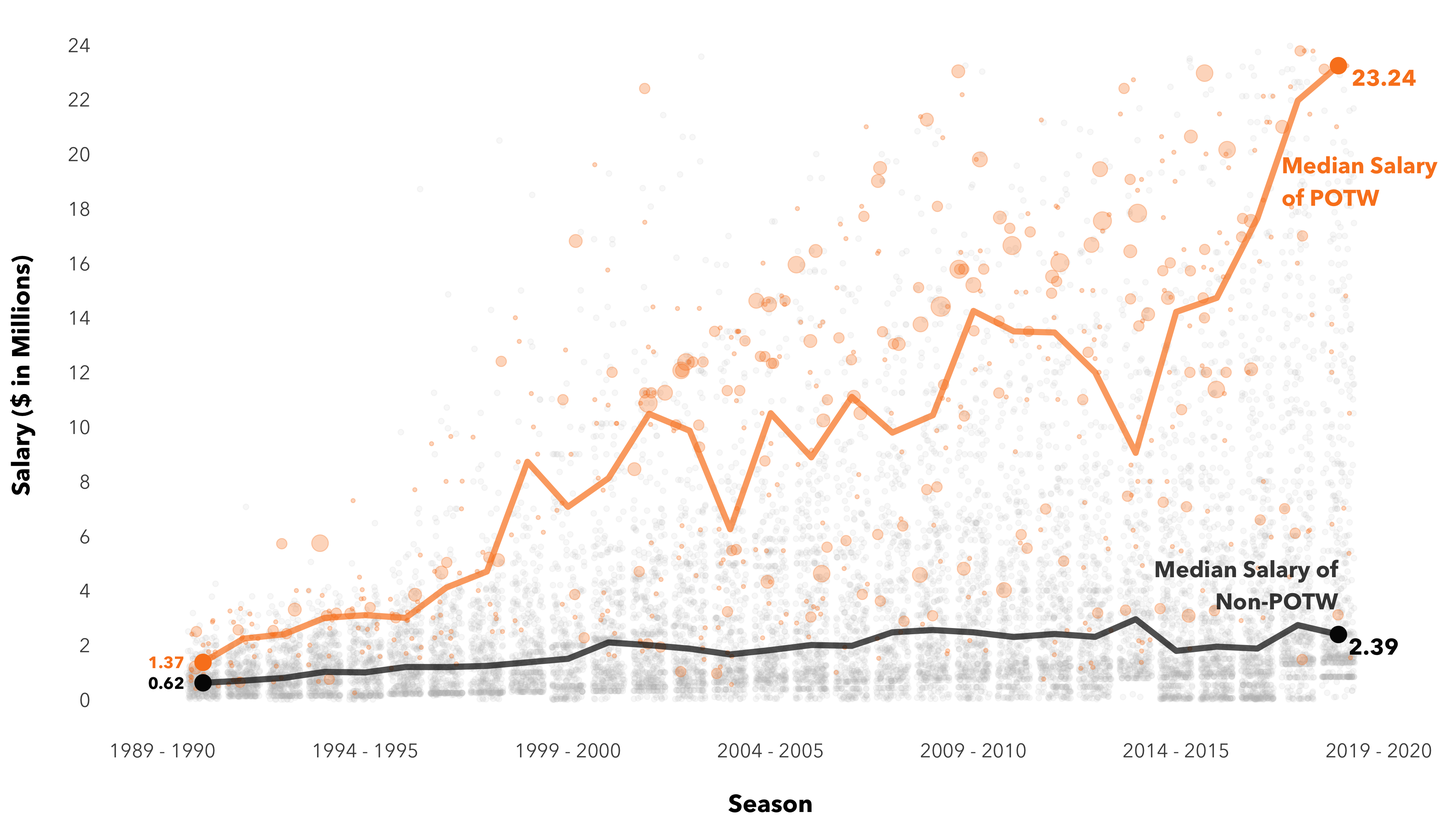
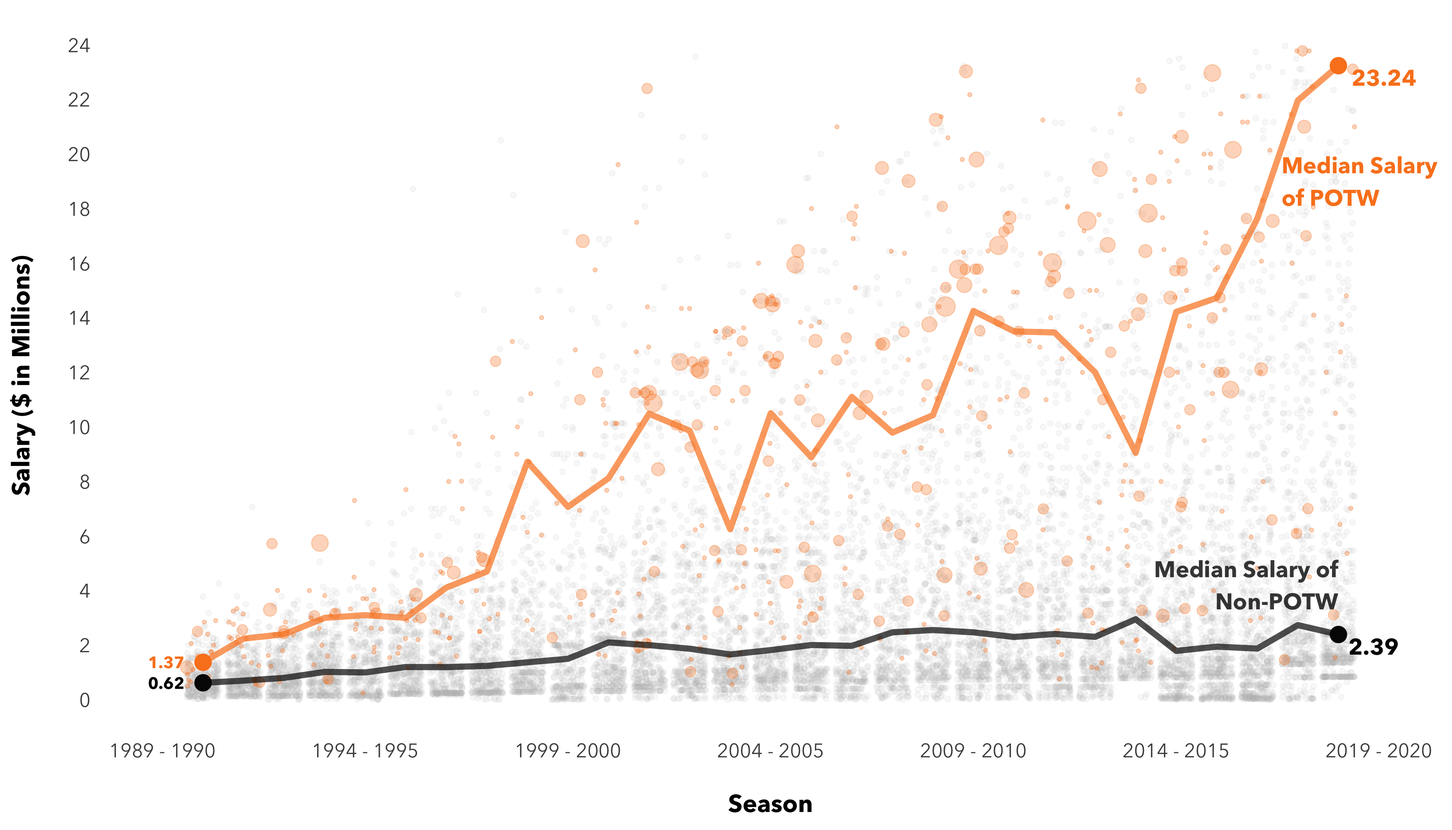
Update script and notebooks

diff --git a/html/_ggplot_5.html b/html/_ggplot_5.html
@@ -13300,7 +13300,7 @@ div#notebook {
 <div class="inner_cell">
     <div class="input_area">
 <div class=" highlight hl-ipython3"><pre><span></span><span class="n">potw_count</span> <span class="o">=</span> <span class="n">potw</span><span class="o">.</span><span class="n">groupby</span><span class="p">(</span><span class="s1">&#39;Team&#39;</span><span class="p">)</span><span class="o">.</span><span class="n">count</span><span class="p">()[</span><span class="s1">&#39;Player&#39;</span><span class="p">]</span><span class="o">.</span><span class="n">reset_index</span><span class="p">()</span>
-<span class="n">location_new</span> <span class="o">=</span> <span class="n">location_w_abb</span><span class="p">[[</span><span class="s1">&#39;Team&#39;</span><span class="p">,</span><span class="s1">&#39;latitude&#39;</span><span class="p">,</span><span class="s1">&#39;longitude&#39;</span><span class="p">,</span><span class="s1">&#39;Abb&#39;</span><span class="p">]]</span>
+<span class="n">location_new</span> <span class="o">=</span> <span class="n">location_w_abb</span><span class="p">[[</span><span class="s1">&#39;Division&#39;</span><span class="p">,</span><span class="s1">&#39;Team&#39;</span><span class="p">,</span><span class="s1">&#39;latitude&#39;</span><span class="p">,</span><span class="s1">&#39;longitude&#39;</span><span class="p">,</span><span class="s1">&#39;Abb&#39;</span><span class="p">]]</span>
 <span class="n">potw_count</span><span class="o">.</span><span class="n">loc</span><span class="p">[</span><span class="n">potw_count</span><span class="o">.</span><span class="n">Team</span> <span class="o">==</span> <span class="s1">&#39;Philadelphia Sixers&#39;</span><span class="p">,</span> <span class="s1">&#39;Team&#39;</span><span class="p">]</span> <span class="o">=</span> <span class="s1">&#39;Philadelphia 76ers&#39;</span>
 </pre></div>
 
@@ -13351,6 +13351,7 @@ div#notebook {
   <thead>
     <tr style="text-align: right;">
       <th></th>
+      <th>Division</th>
       <th>Team</th>
       <th>latitude</th>
       <th>longitude</th>
@@ -13361,6 +13362,7 @@ div#notebook {
   <tbody>
     <tr>
       <td>0</td>
+      <td>Atlantic</td>
       <td>Boston Celtics</td>
       <td>42.366303</td>
       <td>-71.062228</td>
@@ -13369,6 +13371,7 @@ div#notebook {
     </tr>
     <tr>
       <td>1</td>
+      <td>Atlantic</td>
       <td>Brooklyn Nets</td>
       <td>41.000000</td>
       <td>-75.000000</td>
@@ -13377,6 +13380,7 @@ div#notebook {
     </tr>
     <tr>
       <td>2</td>
+      <td>Atlantic</td>
       <td>New York Knicks</td>
       <td>40.750556</td>
       <td>-73.993611</td>
@@ -13385,6 +13389,7 @@ div#notebook {
     </tr>
     <tr>
       <td>3</td>
+      <td>Atlantic</td>
       <td>Philadelphia 76ers</td>
       <td>39.901111</td>
       <td>-75.171944</td>
@@ -13393,6 +13398,7 @@ div#notebook {
     </tr>
     <tr>
       <td>4</td>
+      <td>Atlantic</td>
       <td>Toronto Raptors</td>
       <td>43.643333</td>
       <td>-79.379167</td>
@@ -13468,6 +13474,7 @@ div#notebook {
   <thead>
     <tr style="text-align: right;">
       <th></th>
+      <th>Division</th>
       <th>Team</th>
       <th>latitude</th>
       <th>longitude</th>
@@ -13482,6 +13489,7 @@ div#notebook {
   <tbody>
     <tr>
       <td>0</td>
+      <td>Atlantic</td>
       <td>Boston Celtics</td>
       <td>42.366303</td>
       <td>-71.062228</td>
@@ -13494,6 +13502,7 @@ div#notebook {
     </tr>
     <tr>
       <td>1</td>
+      <td>Atlantic</td>
       <td>Brooklyn Nets</td>
       <td>41.000000</td>
       <td>-75.000000</td>
@@ -13506,6 +13515,7 @@ div#notebook {
     </tr>
     <tr>
       <td>2</td>
+      <td>Atlantic</td>
       <td>New York Knicks</td>
       <td>40.750556</td>
       <td>-73.993611</td>
@@ -13518,6 +13528,7 @@ div#notebook {
     </tr>
     <tr>
       <td>3</td>
+      <td>Atlantic</td>
       <td>Philadelphia 76ers</td>
       <td>39.901111</td>
       <td>-75.171944</td>
@@ -13530,6 +13541,7 @@ div#notebook {
     </tr>
     <tr>
       <td>4</td>
+      <td>Atlantic</td>
       <td>Toronto Raptors</td>
       <td>43.643333</td>
       <td>-79.379167</td>
@@ -13557,13 +13569,23 @@ div#notebook {
 <div class="inner_cell">
     <div class="input_area">
 <div class=" highlight hl-ipython3"><pre><span></span><span class="n">states</span> <span class="o">=</span> <span class="n">np</span><span class="o">.</span><span class="n">array</span><span class="p">([</span><span class="n">state</span><span class="o">.</span><span class="n">name</span><span class="o">.</span><span class="n">lower</span><span class="p">()</span> <span class="k">for</span> <span class="n">state</span> <span class="ow">in</span> <span class="n">us</span><span class="o">.</span><span class="n">states</span><span class="o">.</span><span class="n">STATES</span><span class="p">])</span>
-<span class="nb">print</span><span class="p">(</span><span class="n">states</span><span class="p">)</span>
+<span class="n">states</span> <span class="o">=</span> <span class="n">pd</span><span class="o">.</span><span class="n">DataFrame</span><span class="p">(</span><span class="n">states</span><span class="p">)</span><span class="o">.</span><span class="n">rename</span><span class="p">(</span><span class="n">columns</span> <span class="o">=</span> <span class="p">{</span><span class="mi">0</span><span class="p">:</span><span class="s1">&#39;State&#39;</span><span class="p">})</span>
+<span class="n">states</span>
 <span class="n">region</span> <span class="o">=</span> <span class="n">location_w_abb</span><span class="o">.</span><span class="n">copy</span><span class="p">()[[</span><span class="s1">&#39;Division&#39;</span><span class="p">,</span> <span class="s1">&#39;City, State&#39;</span><span class="p">]]</span>
 <span class="n">region</span><span class="p">[</span><span class="s1">&#39;State&#39;</span><span class="p">]</span> <span class="o">=</span> <span class="n">region</span><span class="p">[</span><span class="s1">&#39;City, State&#39;</span><span class="p">]</span><span class="o">.</span><span class="n">str</span><span class="o">.</span><span class="n">split</span><span class="p">(</span><span class="s1">&#39;, &#39;</span><span class="p">)</span><span class="o">.</span><span class="n">str</span><span class="p">[</span><span class="mi">1</span><span class="p">]</span><span class="o">.</span><span class="n">str</span><span class="o">.</span><span class="n">lower</span><span class="p">()</span>
 <span class="n">region</span><span class="o">.</span><span class="n">loc</span><span class="p">[</span><span class="n">region</span><span class="o">.</span><span class="n">State</span> <span class="o">==</span> <span class="s1">&#39;d.c.&#39;</span><span class="p">,</span> <span class="s1">&#39;State&#39;</span><span class="p">]</span> <span class="o">=</span> <span class="s1">&#39;district of columbia&#39;</span>
 <span class="n">region</span> <span class="o">=</span> <span class="n">region</span><span class="o">.</span><span class="n">drop</span><span class="p">(</span><span class="n">columns</span> <span class="o">=</span> <span class="p">[</span><span class="s1">&#39;City, State&#39;</span><span class="p">])</span><span class="o">.</span><span class="n">drop_duplicates</span><span class="p">()</span>
 <span class="c1">#TODO: Assign color to each division and Join with states and fill na with gray</span>
-<span class="n">region</span>
+<span class="n">location</span> <span class="o">=</span> <span class="n">pd</span><span class="o">.</span><span class="n">merge</span><span class="p">(</span><span class="n">states</span><span class="p">,</span><span class="n">region</span><span class="p">,</span> <span class="n">on</span> <span class="o">=</span> <span class="s1">&#39;State&#39;</span><span class="p">,</span> <span class="n">how</span> <span class="o">=</span> <span class="s1">&#39;left&#39;</span><span class="p">)</span><span class="o">.</span><span class="n">fillna</span><span class="p">(</span><span class="s1">&#39;No_NBA&#39;</span><span class="p">)</span>
+<span class="n">color_dic</span> <span class="o">=</span> <span class="p">{}</span>
+<span class="n">color_lst</span> <span class="o">=</span> <span class="p">[</span><span class="s2">&quot;gray90&quot;</span><span class="p">,</span><span class="s2">&quot;darkseagreen2&quot;</span><span class="p">,</span><span class="s2">&quot;lightblue&quot;</span><span class="p">,</span><span class="s2">&quot;lightpink&quot;</span><span class="p">,</span><span class="s2">&quot;thistle2&quot;</span><span class="p">,</span><span class="s2">&quot;wheat&quot;</span><span class="p">,</span><span class="s2">&quot;tan1&quot;</span><span class="p">]</span>
+<span class="n">i</span> <span class="o">=</span> <span class="mi">0</span>
+<span class="k">for</span> <span class="n">loc</span> <span class="ow">in</span> <span class="n">location</span><span class="o">.</span><span class="n">Division</span><span class="o">.</span><span class="n">unique</span><span class="p">():</span>
+    <span class="n">color_dic</span><span class="p">[</span><span class="n">loc</span><span class="p">]</span> <span class="o">=</span> <span class="n">color_lst</span><span class="p">[</span><span class="n">i</span><span class="p">]</span>
+    <span class="n">i</span> <span class="o">+=</span><span class="mi">1</span>
+<span class="n">location</span><span class="p">[</span><span class="s1">&#39;color&#39;</span><span class="p">]</span> <span class="o">=</span> <span class="n">location</span><span class="p">[</span><span class="s1">&#39;Division&#39;</span><span class="p">]</span><span class="o">.</span><span class="n">map</span><span class="p">(</span><span class="n">color_dic</span><span class="p">)</span>
+<span class="n">location_color</span> <span class="o">=</span> <span class="n">location</span><span class="o">.</span><span class="n">rename</span><span class="p">(</span><span class="n">columns</span> <span class="o">=</span> <span class="p">{</span><span class="s1">&#39;State&#39;</span><span class="p">:</span> <span class="s1">&#39;region&#39;</span><span class="p">})</span><span class="o">.</span><span class="n">set_index</span><span class="p">(</span><span class="s1">&#39;region&#39;</span><span class="p">)[</span><span class="s1">&#39;color&#39;</span><span class="p">]</span>
+<span class="n">location_color</span><span class="o">.</span><span class="n">head</span><span class="p">()</span>
 </pre></div>
 
     </div>
@@ -13576,171 +13598,19 @@ div#notebook {
 
 <div class="output_area">
 
-    <div class="prompt"></div>
-
-
-<div class="output_subarea output_stream output_stdout output_text">
-<pre>[&#39;alabama&#39; &#39;alaska&#39; &#39;arizona&#39; &#39;arkansas&#39; &#39;california&#39; &#39;colorado&#39;
- &#39;connecticut&#39; &#39;delaware&#39; &#39;district of columbia&#39; &#39;florida&#39; &#39;georgia&#39;
- &#39;hawaii&#39; &#39;idaho&#39; &#39;illinois&#39; &#39;indiana&#39; &#39;iowa&#39; &#39;kansas&#39; &#39;kentucky&#39;
- &#39;louisiana&#39; &#39;maine&#39; &#39;maryland&#39; &#39;massachusetts&#39; &#39;michigan&#39; &#39;minnesota&#39;
- &#39;mississippi&#39; &#39;missouri&#39; &#39;montana&#39; &#39;nebraska&#39; &#39;nevada&#39; &#39;new hampshire&#39;
- &#39;new jersey&#39; &#39;new mexico&#39; &#39;new york&#39; &#39;north carolina&#39; &#39;north dakota&#39;
- &#39;ohio&#39; &#39;oklahoma&#39; &#39;oregon&#39; &#39;pennsylvania&#39; &#39;rhode island&#39; &#39;south carolina&#39;
- &#39;south dakota&#39; &#39;tennessee&#39; &#39;texas&#39; &#39;utah&#39; &#39;vermont&#39; &#39;virginia&#39;
- &#39;washington&#39; &#39;west virginia&#39; &#39;wisconsin&#39; &#39;wyoming&#39;]
-</pre>
-</div>
-</div>
-
-<div class="output_area">
-
     <div class="prompt output_prompt">Out[9]:</div>
 
 
 
-<div class="output_html rendered_html output_subarea output_execute_result">
-<div>
-<style scoped>
-    .dataframe tbody tr th:only-of-type {
-        vertical-align: middle;
-    }
 
-    .dataframe tbody tr th {
-        vertical-align: top;
-    }
-
-    .dataframe thead th {
-        text-align: right;
-    }
-</style>
-<table border="1" class="dataframe">
-  <thead>
-    <tr style="text-align: right;">
-      <th></th>
-      <th>Division</th>
-      <th>State</th>
-    </tr>
-  </thead>
-  <tbody>
-    <tr>
-      <td>0</td>
-      <td>Atlantic</td>
-      <td>massachusetts</td>
-    </tr>
-    <tr>
-      <td>1</td>
-      <td>Atlantic</td>
-      <td>new york</td>
-    </tr>
-    <tr>
-      <td>3</td>
-      <td>Atlantic</td>
-      <td>pennsylvania</td>
-    </tr>
-    <tr>
-      <td>4</td>
-      <td>Atlantic</td>
-      <td>ontario</td>
-    </tr>
-    <tr>
-      <td>5</td>
-      <td>Central</td>
-      <td>illinois</td>
-    </tr>
-    <tr>
-      <td>6</td>
-      <td>Central</td>
-      <td>ohio</td>
-    </tr>
-    <tr>
-      <td>7</td>
-      <td>Central</td>
-      <td>michigan</td>
-    </tr>
-    <tr>
-      <td>8</td>
-      <td>Central</td>
-      <td>indiana</td>
-    </tr>
-    <tr>
-      <td>9</td>
-      <td>Central</td>
-      <td>wisconsin</td>
-    </tr>
-    <tr>
-      <td>10</td>
-      <td>Southeast</td>
-      <td>georgia</td>
-    </tr>
-    <tr>
-      <td>11</td>
-      <td>Southeast</td>
-      <td>north carolina</td>
-    </tr>
-    <tr>
-      <td>12</td>
-      <td>Southeast</td>
-      <td>florida</td>
-    </tr>
-    <tr>
-      <td>14</td>
-      <td>Southeast</td>
-      <td>district of columbia</td>
-    </tr>
-    <tr>
-      <td>15</td>
-      <td>Northwest</td>
-      <td>colorado</td>
-    </tr>
-    <tr>
-      <td>16</td>
-      <td>Northwest</td>
-      <td>minnesota</td>
-    </tr>
-    <tr>
-      <td>17</td>
-      <td>Northwest</td>
-      <td>oklahoma</td>
-    </tr>
-    <tr>
-      <td>18</td>
-      <td>Northwest</td>
-      <td>oregon</td>
-    </tr>
-    <tr>
-      <td>19</td>
-      <td>Northwest</td>
-      <td>utah</td>
-    </tr>
-    <tr>
-      <td>20</td>
-      <td>Pacific</td>
-      <td>california</td>
-    </tr>
-    <tr>
-      <td>23</td>
-      <td>Pacific</td>
-      <td>arizona</td>
-    </tr>
-    <tr>
-      <td>25</td>
-      <td>Southwest</td>
-      <td>texas</td>
-    </tr>
-    <tr>
-      <td>27</td>
-      <td>Southwest</td>
-      <td>tennessee</td>
-    </tr>
-    <tr>
-      <td>28</td>
-      <td>Southwest</td>
-      <td>louisiana</td>
-    </tr>
-  </tbody>
-</table>
-</div>
+<div class="output_text output_subarea output_execute_result">
+<pre>region
+alabama              gray90
+alaska               gray90
+arizona       darkseagreen2
+arkansas             gray90
+california    darkseagreen2
+Name: color, dtype: object</pre>
 </div>
 
 </div>
@@ -13757,6 +13627,7 @@ div#notebook {
 <div class=" highlight hl-ipython3"><pre><span></span><span class="o">%</span><span class="k">R</span> -i nba_df
 <span class="o">%</span><span class="k">R</span> -i nba_ggplot_color
 <span class="o">%</span><span class="k">R</span> -i nba_ggplot_fill
+<span class="o">%</span><span class="k">R</span> -i location_color
 </pre></div>
 
     </div>
@@ -13774,8 +13645,11 @@ div#notebook {
 <span class="n">canada</span> <span class="o">&lt;-</span> <span class="nf">map_data</span><span class="p">(</span><span class="s">&#39;worldHires&#39;</span><span class="p">,</span> <span class="s">&#39;Canada&#39;</span><span class="p">)</span>
 
 <span class="nf">ggplot</span><span class="p">()</span> <span class="o">+</span>
-<span class="nf">geom_polygon</span><span class="p">(</span><span class="n">data</span> <span class="o">=</span> <span class="n">usa</span><span class="p">,</span> <span class="nf">aes</span><span class="p">(</span><span class="n">x</span> <span class="o">=</span> <span class="n">long</span><span class="p">,</span> <span class="n">y</span> <span class="o">=</span> <span class="n">lat</span><span class="p">,</span> <span class="n">group</span> <span class="o">=</span> <span class="n">group</span><span class="p">),</span>
-             <span class="n">fill</span> <span class="o">=</span> <span class="s">&#39;gray90&#39;</span><span class="p">,</span> <span class="n">color</span> <span class="o">=</span> <span class="s">&#39;gray&#39;</span><span class="p">,</span> <span class="n">size</span> <span class="o">=</span> <span class="m">0.5</span><span class="p">)</span> <span class="o">+</span>
+<span class="nf">geom_polygon</span><span class="p">(</span><span class="n">data</span> <span class="o">=</span> <span class="n">usa</span><span class="p">,</span> <span class="nf">aes</span><span class="p">(</span><span class="n">x</span> <span class="o">=</span> <span class="n">long</span><span class="p">,</span> <span class="n">y</span> <span class="o">=</span> <span class="n">lat</span><span class="p">,</span> <span class="n">group</span> <span class="o">=</span> <span class="n">group</span><span class="p">,</span> <span class="n">fill</span> <span class="o">=</span> <span class="n">region</span><span class="p">),</span>
+             <span class="n">color</span> <span class="o">=</span> <span class="s">&#39;gray&#39;</span><span class="p">,</span> <span class="n">size</span> <span class="o">=</span> <span class="m">0.7</span><span class="p">)</span> <span class="o">+</span>
+<span class="nf">scale_fill_manual</span><span class="p">(</span><span class="n">values</span> <span class="o">=</span> <span class="n">location_color</span><span class="p">)</span> <span class="o">+</span>
+<span class="nf">guides</span><span class="p">(</span><span class="n">fill</span> <span class="o">=</span> <span class="bp">F</span><span class="p">)</span> <span class="o">+</span>
+<span class="nf">new_scale</span><span class="p">(</span><span class="s">&#39;fill&#39;</span><span class="p">)</span> <span class="o">+</span>
 <span class="nf">geom_polygon</span><span class="p">(</span><span class="n">data</span> <span class="o">=</span> <span class="n">canada</span><span class="p">,</span> <span class="nf">aes</span><span class="p">(</span><span class="n">x</span> <span class="o">=</span> <span class="n">long</span><span class="p">,</span> <span class="n">y</span> <span class="o">=</span> <span class="n">lat</span><span class="p">,</span> <span class="n">group</span> <span class="o">=</span> <span class="n">group</span><span class="p">),</span>
              <span class="n">fill</span> <span class="o">=</span> <span class="s">&#39;grey90&#39;</span><span class="p">,</span> <span class="n">color</span> <span class="o">=</span> <span class="s">&#39;gray&#39;</span><span class="p">,</span> <span class="n">size</span> <span class="o">=</span> <span class="m">0.5</span><span class="p">)</span> <span class="o">+</span>
 <span class="nf">geom_point</span><span class="p">(</span><span class="n">data</span> <span class="o">=</span> <span class="n">nba_df</span><span class="p">,</span> <span class="nf">aes</span><span class="p">(</span><span class="n">x</span> <span class="o">=</span> <span class="n">longitude</span><span class="p">,</span> <span class="n">y</span> <span class="o">=</span> <span class="n">latitude</span><span class="p">,</span> <span class="n">size</span> <span class="o">=</span> <span class="n">Player</span><span class="p">,</span> <span class="n">color</span> <span class="o">=</span> <span class="n">Team</span><span class="p">,</span> <span class="n">fill</span> <span class="o">=</span> <span class="n">Team</span><span class="p">),</span>
@@ -13798,7 +13672,7 @@ div#notebook {
       <span class="n">panel.grid</span> <span class="o">=</span> <span class="nf">element_blank</span><span class="p">(),</span>
       <span class="n">axis.title</span> <span class="o">=</span> <span class="nf">element_blank</span><span class="p">(),</span>
       <span class="n">legend.title</span> <span class="o">=</span> <span class="nf">element_text</span><span class="p">(</span><span class="n">face</span> <span class="o">=</span> <span class="s">&#39;bold&#39;</span><span class="p">,</span> <span class="n">size</span> <span class="o">=</span> <span class="m">10</span><span class="p">),</span>
-      <span class="n">legend.position</span> <span class="o">=</span> <span class="s">&#39;right&#39;</span><span class="p">,</span>
+      <span class="n">legend.position</span> <span class="o">=</span> <span class="s">&#39;None&#39;</span><span class="p">,</span>
       <span class="n">legend.background</span> <span class="o">=</span> <span class="nf">element_rect</span><span class="p">(</span><span class="n">size</span> <span class="o">=</span> <span class="m">0</span><span class="p">,</span> <span class="n">fill</span> <span class="o">=</span> <span class="s">&#39;snow2&#39;</span><span class="p">))</span> <span class="o">+</span>
 <span class="nf">guides</span><span class="p">(</span><span class="n">fill</span> <span class="o">=</span> <span class="bp">F</span><span class="p">,</span> <span class="n">color</span> <span class="o">=</span> <span class="bp">F</span><span class="p">,</span> <span class="n">size</span> <span class="o">=</span> <span class="bp">F</span><span class="p">,</span> <span class="n">size</span> <span class="o">=</span> <span class="bp">F</span><span class="p">,</span> <span class="n">shape</span> <span class="o">=</span> <span class="bp">F</span><span class="p">)</span>
 

diff --git a/html/_ggplot_4.html b/html/_ggplot_4.html
@@ -13327,11 +13327,13 @@ memory usage: 4.6+ KB
 
 <span class="nf">ggplot</span><span class="p">(</span><span class="n">data</span> <span class="o">=</span> <span class="n">potw_title_2</span><span class="p">)</span> <span class="o">+</span> 
 <span class="nf">geom_label</span><span class="p">(</span><span class="nf">aes</span><span class="p">(</span><span class="n">x</span> <span class="o">=</span> <span class="n">Year</span><span class="p">,</span> <span class="n">y</span> <span class="o">=</span> <span class="n">Title</span><span class="p">,</span> <span class="n">label</span> <span class="o">=</span> <span class="n">Player</span><span class="p">,</span> <span class="n">fill</span> <span class="o">=</span> <span class="n">Player</span><span class="p">),</span><span class="n">family</span> <span class="o">=</span> <span class="s">&#39;Avenir Next&#39;</span><span class="p">,</span><span class="n">alpha</span> <span class="o">=</span> <span class="m">0.5</span><span class="p">)</span> <span class="o">+</span>
-<span class="nf">geom_rect</span><span class="p">(</span><span class="n">mapping</span><span class="o">=</span><span class="nf">aes</span><span class="p">(</span><span class="n">xmin</span><span class="o">=</span><span class="m">2006-0.5</span><span class="p">,</span> <span class="n">xmax</span><span class="o">=</span><span class="m">2013+0.5</span><span class="p">,</span> <span class="n">ymin</span> <span class="o">=</span> <span class="m">0</span><span class="p">,</span> <span class="n">ymax</span> <span class="o">=</span> <span class="m">7</span><span class="p">),</span> <span class="n">fill</span><span class="o">=</span><span class="s">&quot;lightpink&quot;</span><span class="p">,</span> <span class="n">alpha</span><span class="o">=</span><span class="m">0.05</span><span class="p">)</span> <span class="o">+</span>
+<span class="nf">geom_rect</span><span class="p">(</span><span class="n">mapping</span><span class="o">=</span><span class="nf">aes</span><span class="p">(</span><span class="n">xmin</span><span class="o">=</span><span class="m">2019-0.5</span><span class="p">,</span> <span class="n">xmax</span><span class="o">=</span><span class="m">2020</span><span class="p">,</span> <span class="n">ymin</span> <span class="o">=</span> <span class="m">0</span><span class="p">,</span> <span class="n">ymax</span> <span class="o">=</span> <span class="m">7</span><span class="p">),</span> <span class="n">fill</span><span class="o">=</span><span class="s">&quot;darkseagreen2&quot;</span><span class="p">,</span> <span class="n">alpha</span><span class="o">=</span><span class="m">0.05</span><span class="p">)</span> <span class="o">+</span>
 <span class="nf">geom_rect</span><span class="p">(</span><span class="n">mapping</span><span class="o">=</span><span class="nf">aes</span><span class="p">(</span><span class="n">xmin</span><span class="o">=</span><span class="m">2014-0.5</span><span class="p">,</span> <span class="n">xmax</span><span class="o">=</span><span class="m">2018+0.5</span><span class="p">,</span> <span class="n">ymin</span> <span class="o">=</span> <span class="m">0</span><span class="p">,</span> <span class="n">ymax</span> <span class="o">=</span> <span class="m">7</span><span class="p">),</span> <span class="n">fill</span><span class="o">=</span><span class="s">&quot;lightblue&quot;</span><span class="p">,</span> <span class="n">alpha</span><span class="o">=</span><span class="m">0.05</span><span class="p">)</span> <span class="o">+</span>
-<span class="nf">geom_rect</span><span class="p">(</span><span class="n">mapping</span><span class="o">=</span><span class="nf">aes</span><span class="p">(</span><span class="n">xmin</span><span class="o">=</span><span class="m">2001-0.5</span><span class="p">,</span> <span class="n">xmax</span><span class="o">=</span><span class="m">2005+0.5</span><span class="p">,</span> <span class="n">ymin</span> <span class="o">=</span> <span class="m">0</span><span class="p">,</span> <span class="n">ymax</span> <span class="o">=</span> <span class="m">7</span><span class="p">),</span> <span class="n">fill</span><span class="o">=</span><span class="s">&quot;darkseagreen2&quot;</span><span class="p">,</span> <span class="n">alpha</span><span class="o">=</span><span class="m">0.05</span><span class="p">)</span> <span class="o">+</span>
+<span class="nf">geom_rect</span><span class="p">(</span><span class="n">mapping</span><span class="o">=</span><span class="nf">aes</span><span class="p">(</span><span class="n">xmin</span><span class="o">=</span><span class="m">2006-0.5</span><span class="p">,</span> <span class="n">xmax</span><span class="o">=</span><span class="m">2013+0.5</span><span class="p">,</span> <span class="n">ymin</span> <span class="o">=</span> <span class="m">0</span><span class="p">,</span> <span class="n">ymax</span> <span class="o">=</span> <span class="m">7</span><span class="p">),</span> <span class="n">fill</span><span class="o">=</span><span class="s">&quot;lightpink&quot;</span><span class="p">,</span> <span class="n">alpha</span><span class="o">=</span><span class="m">0.05</span><span class="p">)</span> <span class="o">+</span>
+<span class="nf">geom_rect</span><span class="p">(</span><span class="n">mapping</span><span class="o">=</span><span class="nf">aes</span><span class="p">(</span><span class="n">xmin</span><span class="o">=</span><span class="m">2001-0.5</span><span class="p">,</span> <span class="n">xmax</span><span class="o">=</span><span class="m">2005+0.5</span><span class="p">,</span> <span class="n">ymin</span> <span class="o">=</span> <span class="m">0</span><span class="p">,</span> <span class="n">ymax</span> <span class="o">=</span> <span class="m">7</span><span class="p">),</span> <span class="n">fill</span><span class="o">=</span><span class="s">&quot;thistle2&quot;</span><span class="p">,</span> <span class="n">alpha</span><span class="o">=</span><span class="m">0.05</span><span class="p">)</span> <span class="o">+</span>
 <span class="nf">geom_rect</span><span class="p">(</span><span class="n">mapping</span><span class="o">=</span><span class="nf">aes</span><span class="p">(</span><span class="n">xmin</span><span class="o">=</span><span class="m">1994-0.5</span><span class="p">,</span> <span class="n">xmax</span><span class="o">=</span><span class="m">2000+0.5</span><span class="p">,</span> <span class="n">ymin</span> <span class="o">=</span> <span class="m">0</span><span class="p">,</span> <span class="n">ymax</span> <span class="o">=</span> <span class="m">7</span><span class="p">),</span> <span class="n">fill</span><span class="o">=</span><span class="s">&quot;wheat&quot;</span><span class="p">,</span> <span class="n">alpha</span><span class="o">=</span><span class="m">0.05</span><span class="p">)</span> <span class="o">+</span>
 <span class="nf">geom_rect</span><span class="p">(</span><span class="n">mapping</span><span class="o">=</span><span class="nf">aes</span><span class="p">(</span><span class="n">xmin</span><span class="o">=</span><span class="m">1999-0.5</span><span class="p">,</span> <span class="n">xmax</span><span class="o">=</span><span class="m">1999+0.5</span><span class="p">,</span> <span class="n">ymin</span> <span class="o">=</span> <span class="m">0</span><span class="p">,</span> <span class="n">ymax</span> <span class="o">=</span> <span class="m">7</span><span class="p">),</span> <span class="n">fill</span><span class="o">=</span><span class="s">&quot;gold&quot;</span><span class="p">,</span> <span class="n">alpha</span><span class="o">=</span><span class="m">0.1</span><span class="p">)</span> <span class="o">+</span>
+<span class="nf">geom_rect</span><span class="p">(</span><span class="n">mapping</span><span class="o">=</span><span class="nf">aes</span><span class="p">(</span><span class="n">xmin</span><span class="o">=</span><span class="m">2011-0.5</span><span class="p">,</span> <span class="n">xmax</span><span class="o">=</span><span class="m">2011+0.5</span><span class="p">,</span> <span class="n">ymin</span> <span class="o">=</span> <span class="m">0</span><span class="p">,</span> <span class="n">ymax</span> <span class="o">=</span> <span class="m">7</span><span class="p">),</span> <span class="n">fill</span><span class="o">=</span><span class="s">&quot;white&quot;</span><span class="p">)</span> <span class="o">+</span>
 <span class="nf">geom_label</span><span class="p">(</span><span class="nf">aes</span><span class="p">(</span><span class="n">x</span> <span class="o">=</span> <span class="n">Year</span><span class="p">,</span> <span class="n">y</span> <span class="o">=</span> <span class="n">Title</span><span class="p">,</span> <span class="n">label</span> <span class="o">=</span> <span class="n">Player</span><span class="p">),</span><span class="n">fill</span> <span class="o">=</span> <span class="s">&#39;white&#39;</span><span class="p">,</span> <span class="n">family</span> <span class="o">=</span> <span class="s">&#39;Avenir Next&#39;</span><span class="p">)</span> <span class="o">+</span>
 <span class="nf">geom_label</span><span class="p">(</span><span class="nf">aes</span><span class="p">(</span><span class="n">x</span> <span class="o">=</span> <span class="n">Year</span><span class="p">,</span> <span class="n">y</span> <span class="o">=</span> <span class="n">Title</span><span class="p">,</span> <span class="n">label</span> <span class="o">=</span> <span class="n">Player</span><span class="p">,</span> <span class="n">fill</span> <span class="o">=</span> <span class="n">Player</span><span class="p">),</span><span class="n">family</span> <span class="o">=</span> <span class="s">&#39;Avenir Next&#39;</span><span class="p">,</span> <span class="n">alpha</span> <span class="o">=</span> <span class="m">0.5</span><span class="p">)</span> <span class="o">+</span>
 <span class="nf">geom_text</span><span class="p">(</span><span class="nf">aes</span><span class="p">(</span><span class="n">x</span> <span class="o">=</span> <span class="m">2000</span> <span class="p">,</span> <span class="n">y</span> <span class="o">=</span> <span class="m">6.9</span><span class="p">,</span> <span class="n">label</span> <span class="o">=</span> <span class="s">&#39;1998 - 99 NBA Lockout&#39;</span><span class="p">),</span> <span class="n">size</span> <span class="o">=</span> <span class="m">5.5</span><span class="p">,</span> <span class="n">color</span> <span class="o">=</span> <span class="s">&#39;grey1&#39;</span><span class="p">,</span>
@@ -13350,7 +13352,7 @@ memory usage: 4.6+ KB
 <span class="nf">theme</span><span class="p">(</span><span class="n">text</span> <span class="o">=</span> <span class="nf">element_text</span><span class="p">(</span><span class="n">family</span> <span class="o">=</span> <span class="s">&#39;Avenir Next&#39;</span><span class="p">),</span>
       <span class="n">axis.title</span> <span class="o">=</span> <span class="nf">element_text</span><span class="p">(</span><span class="n">face</span> <span class="o">=</span> <span class="s">&#39;bold&#39;</span><span class="p">),</span>
       <span class="n">panel.grid.major</span> <span class="o">=</span> <span class="nf">element_blank</span><span class="p">())</span> <span class="o">+</span>
-<span class="nf">scale_x_continuous</span><span class="p">(</span><span class="n">name</span> <span class="o">=</span> <span class="s">&#39;Season\n&#39;</span><span class="p">,</span> <span class="n">limits</span> <span class="o">=</span> <span class="nf">c</span><span class="p">(</span><span class="m">1991</span><span class="p">,</span> <span class="m">2019</span><span class="p">),</span> <span class="n">breaks</span> <span class="o">=</span> <span class="nf">seq</span><span class="p">(</span><span class="m">1991</span><span class="p">,</span> <span class="m">2019</span><span class="p">,</span> <span class="n">by</span> <span class="o">=</span> <span class="m">1</span><span class="p">),</span> <span class="n">label</span> <span class="o">=</span> <span class="n">season</span><span class="p">)</span> <span class="o">+</span>
+<span class="nf">scale_x_continuous</span><span class="p">(</span><span class="n">name</span> <span class="o">=</span> <span class="s">&#39;Season\n&#39;</span><span class="p">,</span> <span class="n">limits</span> <span class="o">=</span> <span class="nf">c</span><span class="p">(</span><span class="m">1991</span><span class="p">,</span> <span class="m">2020</span><span class="p">),</span> <span class="n">breaks</span> <span class="o">=</span> <span class="nf">seq</span><span class="p">(</span><span class="m">1991</span><span class="p">,</span> <span class="m">2019</span><span class="p">,</span> <span class="n">by</span> <span class="o">=</span> <span class="m">1</span><span class="p">),</span> <span class="n">label</span> <span class="o">=</span> <span class="n">season</span><span class="p">)</span> <span class="o">+</span>
 <span class="nf">scale_y_discrete</span><span class="p">(</span><span class="n">name</span> <span class="o">=</span> <span class="s">&#39;\nTitles received by the Player who received the most Player of the Week&#39;</span><span class="p">)</span>
 
 <span class="nf">ggsave</span><span class="p">(</span><span class="s">&#39;../vis/vis4.png&#39;</span><span class="p">,</span> <span class="n">units</span> <span class="o">=</span> <span class="s">&#39;in&#39;</span><span class="p">,</span> <span class="n">width</span> <span class="o">=</span> <span class="m">12</span><span class="p">,</span> <span class="n">height</span> <span class="o">=</span> <span class="m">10</span><span class="p">)</span>

diff --git a/html/_ggplot_2.html b/html/_ggplot_2.html
@@ -13407,9 +13407,9 @@ memory usage: 582.0+ KB
 <span class="nf">scale_color_manual</span><span class="p">(</span><span class="n">values</span><span class="o">=</span><span class="nf">c</span><span class="p">(</span><span class="s">&quot;grey2&quot;</span><span class="p">,</span> <span class="s">&quot;#FA8320&quot;</span><span class="p">))</span> <span class="o">+</span>
 <span class="nf">geom_point</span><span class="p">(</span><span class="nf">aes</span><span class="p">(</span><span class="n">x</span> <span class="o">=</span> <span class="n">Year</span><span class="p">,</span> <span class="n">y</span> <span class="o">=</span> <span class="n">Salary</span><span class="p">,</span> <span class="n">color</span> <span class="o">=</span> <span class="n">Is_POTW</span><span class="p">),</span> <span class="n">data</span> <span class="o">=</span> <span class="n">annote_slr_potw1</span><span class="p">,</span> <span class="n">position</span> <span class="o">=</span> <span class="s">&quot;dodge&quot;</span><span class="p">,</span> <span class="n">size</span> <span class="o">=</span> <span class="m">5</span><span class="p">)</span> <span class="o">+</span>
 <span class="nf">geom_point</span><span class="p">(</span><span class="nf">aes</span><span class="p">(</span><span class="n">x</span> <span class="o">=</span> <span class="n">Year</span><span class="p">,</span> <span class="n">y</span> <span class="o">=</span> <span class="n">Salary</span><span class="p">,</span> <span class="n">color</span> <span class="o">=</span> <span class="n">Is_POTW</span><span class="p">),</span> <span class="n">data</span> <span class="o">=</span> <span class="n">annote_slr_potw2</span><span class="p">,</span> <span class="n">position</span> <span class="o">=</span> <span class="s">&quot;dodge&quot;</span><span class="p">,</span> <span class="n">size</span> <span class="o">=</span> <span class="m">5</span><span class="p">)</span> <span class="o">+</span>
-<span class="nf">geom_text</span><span class="p">(</span><span class="nf">aes</span><span class="p">(</span><span class="n">x</span> <span class="o">=</span> <span class="m">2018.5</span><span class="p">,</span> <span class="n">y</span> <span class="o">=</span> <span class="m">20.75</span><span class="p">,</span> <span class="n">label</span> <span class="o">=</span> <span class="s">&#39;Avg Salary\nof POTW&#39;</span><span class="p">),</span> <span class="n">size</span> <span class="o">=</span> <span class="m">5.5</span><span class="p">,</span> <span class="n">color</span> <span class="o">=</span> <span class="s">&#39;#FA8320&#39;</span><span class="p">,</span>
+<span class="nf">geom_text</span><span class="p">(</span><span class="nf">aes</span><span class="p">(</span><span class="n">x</span> <span class="o">=</span> <span class="m">2017.6</span><span class="p">,</span> <span class="n">y</span> <span class="o">=</span> <span class="m">19</span><span class="p">,</span> <span class="n">label</span> <span class="o">=</span> <span class="s">&#39;Median Salary\nof POTW&#39;</span><span class="p">),</span> <span class="n">size</span> <span class="o">=</span> <span class="m">5.5</span><span class="p">,</span> <span class="n">color</span> <span class="o">=</span> <span class="s">&#39;#FA8320&#39;</span><span class="p">,</span>
           <span class="n">hjust</span> <span class="o">=</span> <span class="m">0</span><span class="p">,</span> <span class="n">fontface</span> <span class="o">=</span> <span class="s">&#39;bold&#39;</span><span class="p">,</span> <span class="n">family</span> <span class="o">=</span> <span class="s">&#39;Avenir Next&#39;</span><span class="p">)</span> <span class="o">+</span>
-<span class="nf">geom_text</span><span class="p">(</span><span class="nf">aes</span><span class="p">(</span><span class="n">x</span> <span class="o">=</span> <span class="m">2018.5</span><span class="p">,</span> <span class="n">y</span> <span class="o">=</span> <span class="m">4.5</span><span class="p">,</span> <span class="n">label</span> <span class="o">=</span> <span class="s">&#39;Avg Salary of\nNon-POTW&#39;</span><span class="p">),</span> <span class="n">size</span> <span class="o">=</span> <span class="m">5.5</span><span class="p">,</span> <span class="n">color</span> <span class="o">=</span> <span class="s">&#39;grey1&#39;</span><span class="p">,</span>
+<span class="nf">geom_text</span><span class="p">(</span><span class="nf">aes</span><span class="p">(</span><span class="n">x</span> <span class="o">=</span> <span class="m">2019</span><span class="p">,</span> <span class="n">y</span> <span class="o">=</span> <span class="m">4.2</span><span class="p">,</span> <span class="n">label</span> <span class="o">=</span> <span class="s">&#39;Median Salary of\nNon-POTW&#39;</span><span class="p">),</span> <span class="n">size</span> <span class="o">=</span> <span class="m">5.5</span><span class="p">,</span> <span class="n">color</span> <span class="o">=</span> <span class="s">&#39;grey1&#39;</span><span class="p">,</span>
           <span class="n">alpha</span> <span class="o">=</span> <span class="m">0.8</span><span class="p">,</span> <span class="n">hjust</span> <span class="o">=</span> <span class="s">&#39;right&#39;</span><span class="p">,</span> <span class="n">fontface</span> <span class="o">=</span> <span class="s">&#39;bold&#39;</span><span class="p">,</span> <span class="n">family</span> <span class="o">=</span> <span class="s">&#39;Avenir Next&#39;</span><span class="p">)</span> <span class="o">+</span>
 <span class="nf">xlab</span><span class="p">(</span><span class="s">&quot;\nYear&quot;</span><span class="p">)</span> <span class="o">+</span> 
 <span class="nf">ylab</span><span class="p">(</span><span class="s">&quot;Salary ($ in Millions) \n&quot;</span><span class="p">)</span> <span class="o">+</span>
